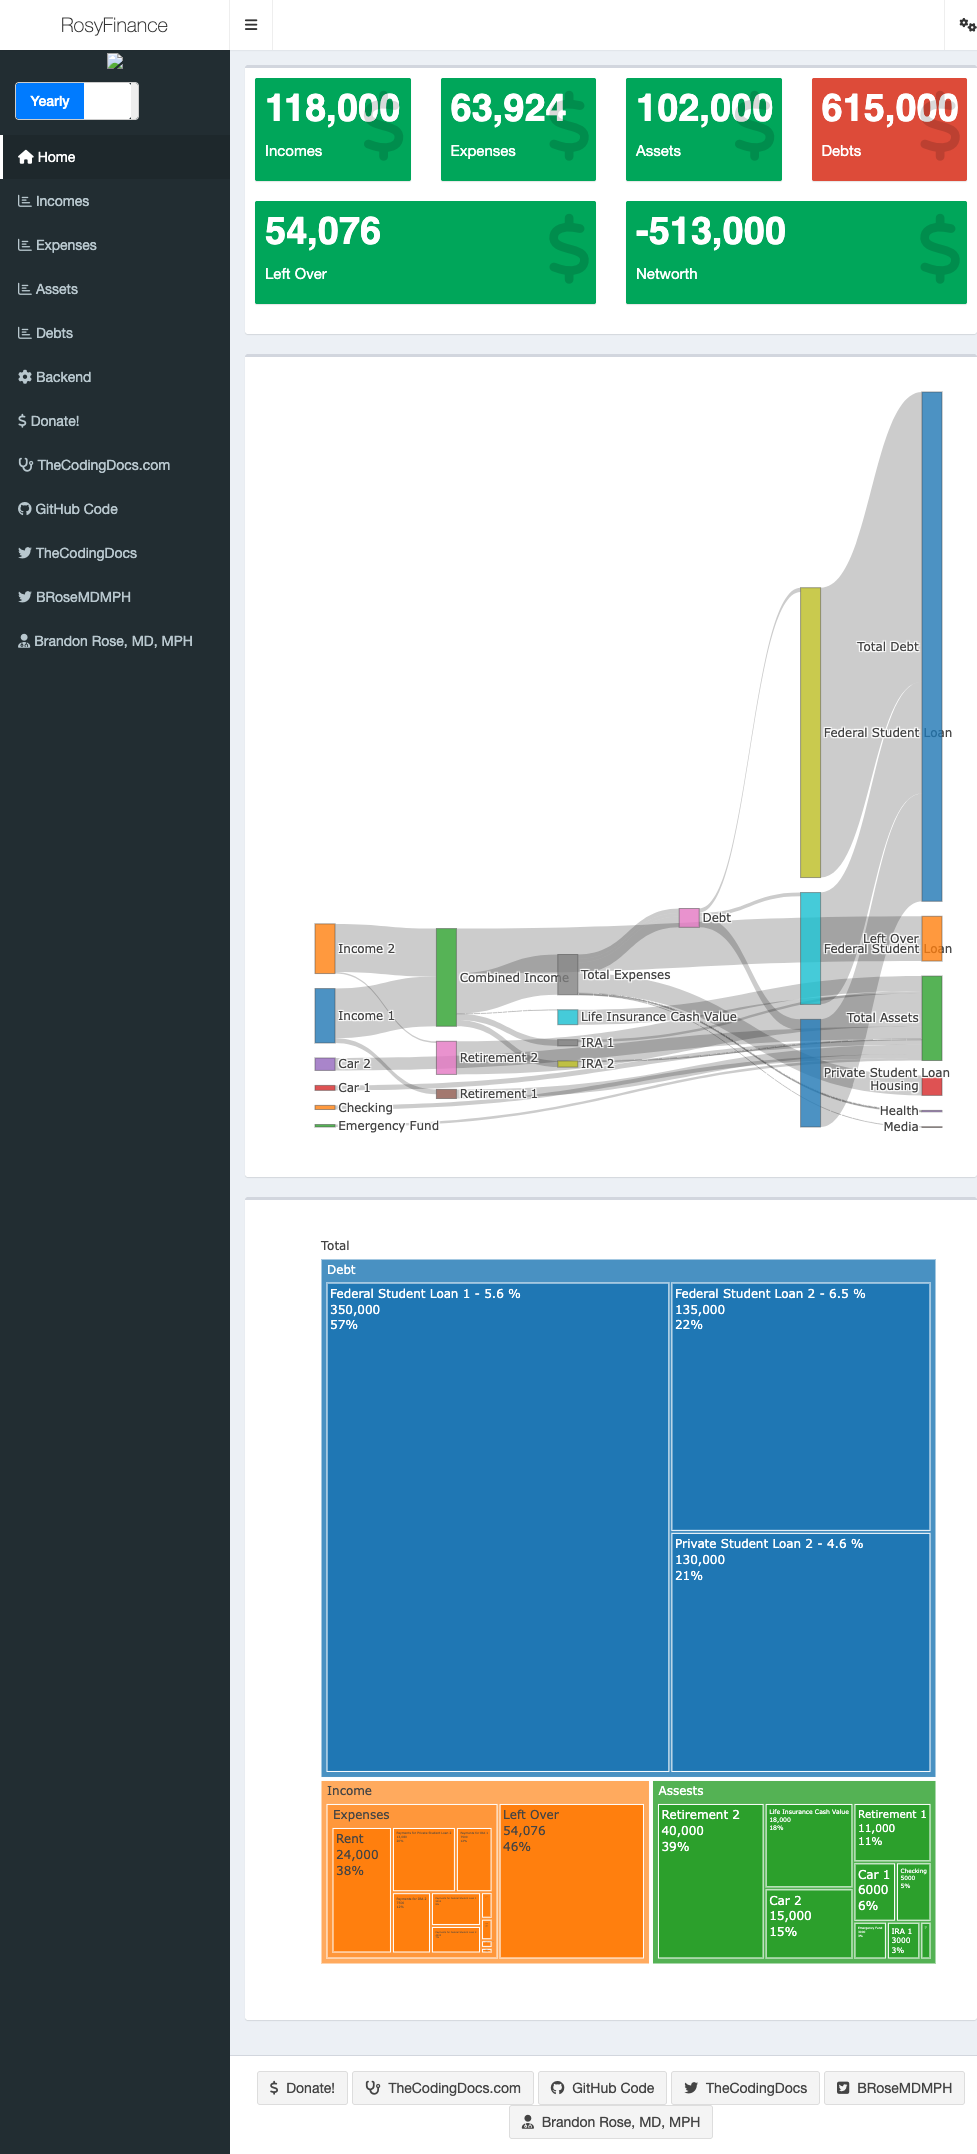
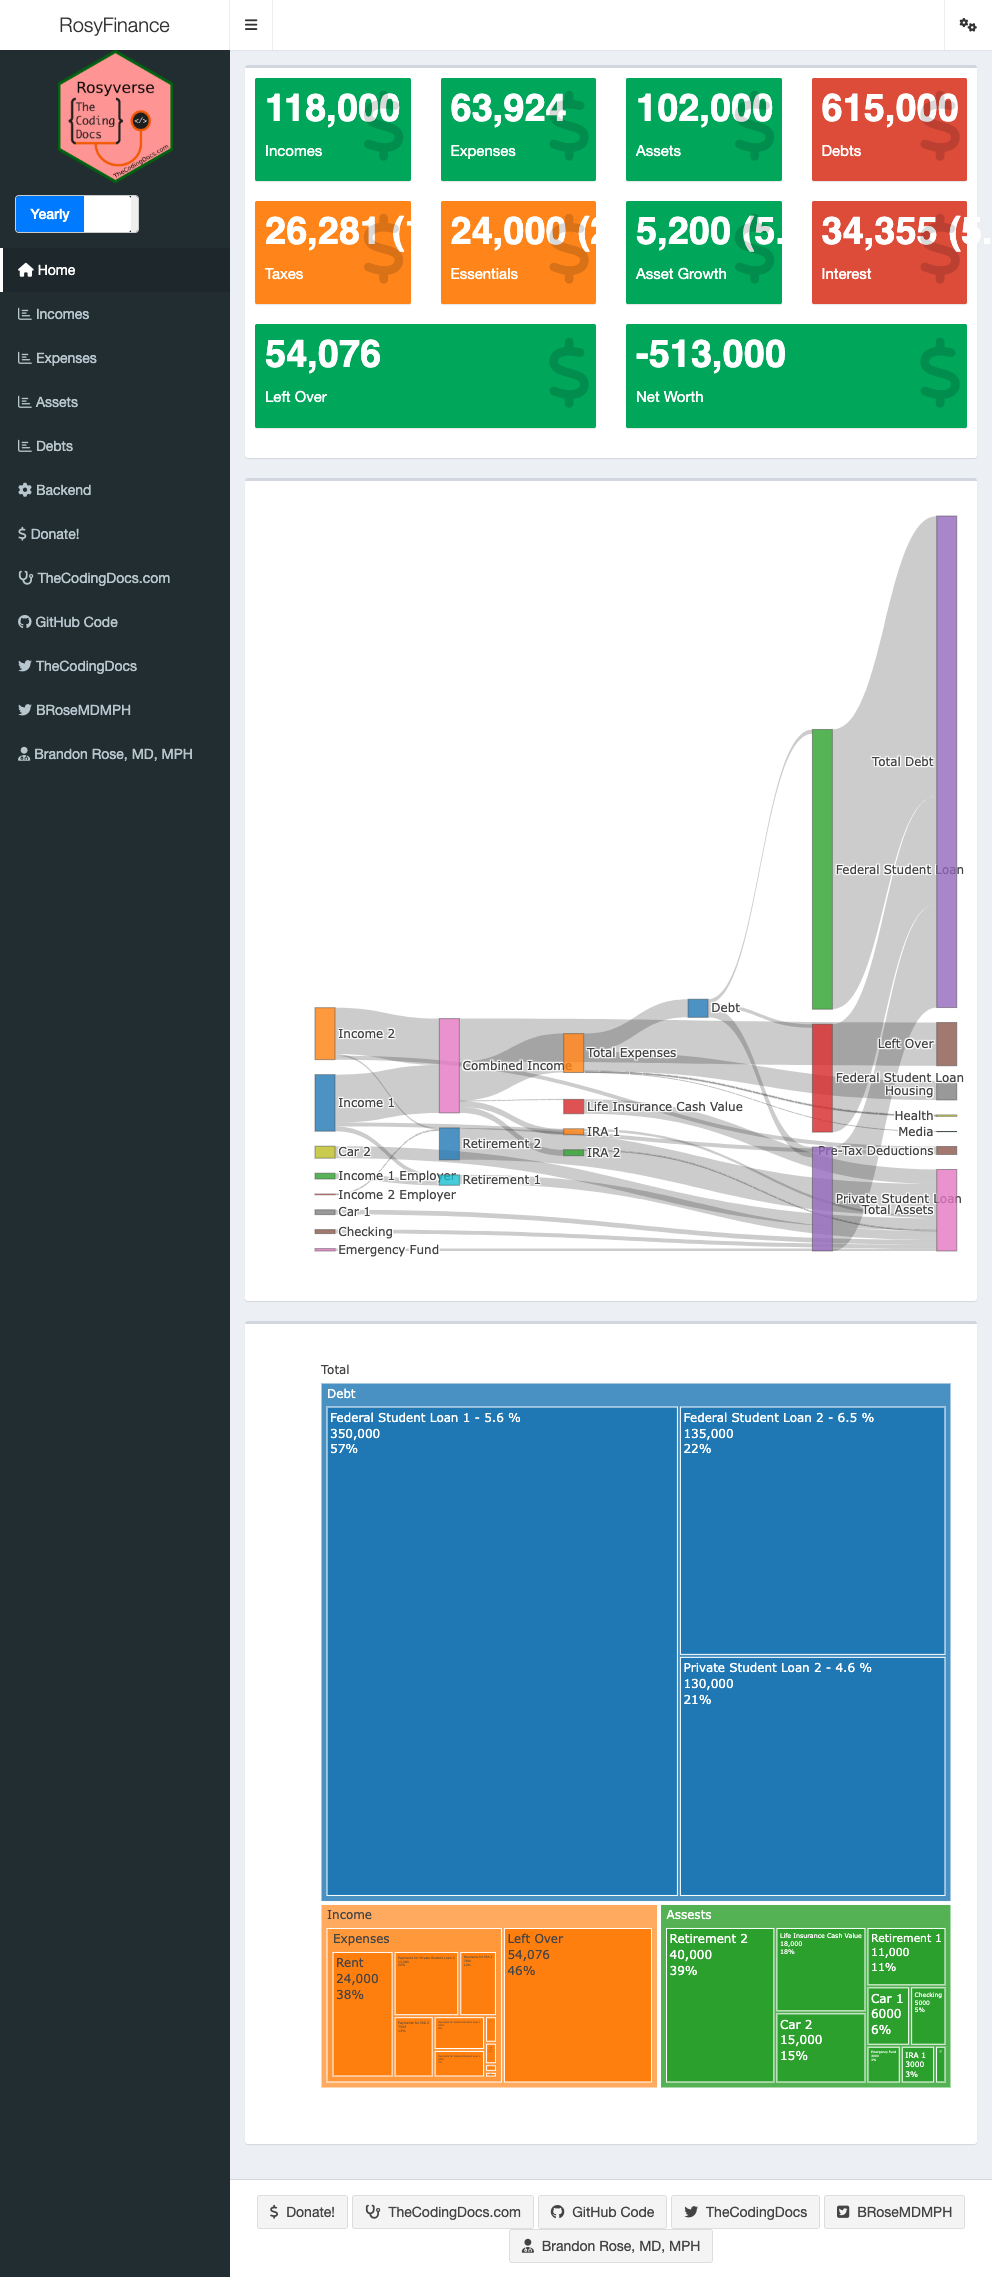
new image

diff --git a/README.md b/README.md
@@ -46,7 +46,7 @@ finances$calc_net_worth()
 run_RosyFinance()
 #> Loading required package: shiny
 #> 
-#> Listening on http://127.0.0.1:7755
+#> Listening on http://127.0.0.1:5146
 ```
 
 <img src="man/figures/README-unnamed-chunk-3-1.png" alt="" width="100%" />
